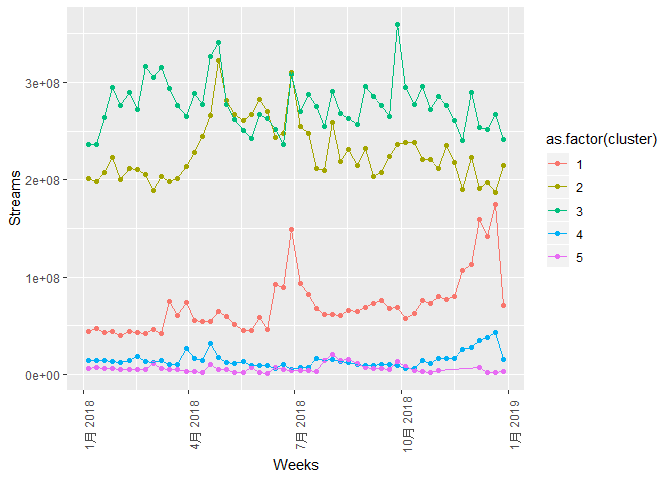
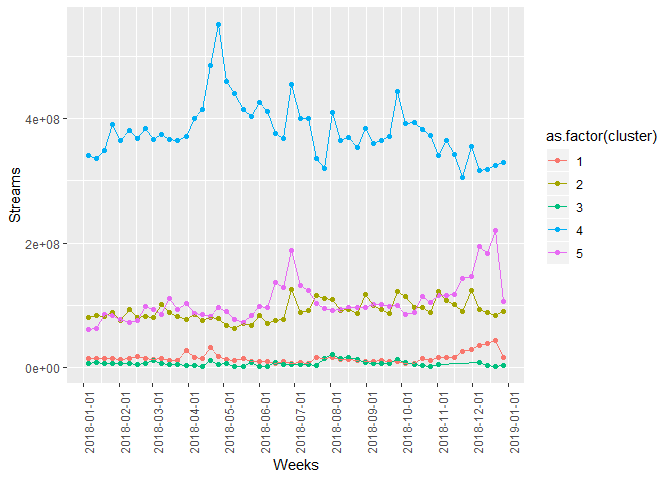
final

diff --git a/Final Project/final_project.md b/Final Project/final_project.md
@@ -6,21 +6,21 @@ By Chong Wang, Tianping Wu, Zhenning Zhao, Zhiyang Lin
 Abstract
 --------
 
-that we gathered from Spotify.com. We built linear and non-linear prediction models of the total steams of the songs, and improved the performance of the prediction comparing with the baseline model. We also segmented the songs into 5 groups through unsupervised algorithm, and assessed the popularity trend of different groups through the entire year. The result of this project can help digital music servers improve playlist song recommendations, and help record companies make album promotion decisions.
+In this project, we gathered data from Spotify.com, and built linear and non-linear prediction models of the total streams of the songs, and improved the performance of the prediction comparing with the baseline model. We also segmented the songs into 5 groups through unsupervised algorithm, and assessed the popularity trend for different groups throughout the entire year. The result of this project can help digital music servers improve playlist song recommendations, and help record companies make album promotion decisions.
 
 Introduction
 ------------
 
-Popular music market is remarkably large, especially in recent years. Pop songs inspire generations from all walks of life. Every day, oceans of pop tracks jump on to the Top 200 List of Spotify. In this project, we analysed the data of the 2018 popular music database from Spotify.com, with the aim of helping digital music servers to improve playlist song recommendations, and, helping record companies to make album promotion decisions according to the predictions on the playing streams.
+Popular music market is remarkably large, especially in recent years. Songs inspire generations from all walks of life. Every day, oceans of tracks jump on to the Top 200 List on Spotify. In this project, we analyzed the data of the 2018 popular music database from Spotify.com, with the aim of helping digital music servers to improve playlist song recommendations, and helping record companies to make album promotion decisions according to the predictions on the playing streams.
 
-This project mainly answered the following questions: first, predict the streams of the tracks; and second, analysis the pattern of the popularity trend. As for the first question, we used stepwise method, the lasso method and the random forest and boosting to build a prediction model of track streams, with the features of the songs and the albums as predictors. As for the second question, we firstly used PCA and K-means to cluster the songs by features, dividing songs into different categories; then we plotted the trend of the popularity of different types of songs, showing the changes in the trend of listener's tastes.
+This project mainly answered the following questions: first, predict the streams of the tracks; and second, analysis of the pattern of the popularity trend. As for the first question, we used stepwise method, the lasso method and the random forest and boosting to build a prediction model of track streams, having features of the songs and the albums as predictors. As for the second question, we firstly used PCA and K-means to cluster the songs by features, dividing songs into different categories; then we plotted the trend of the popularity of different types of songs, showing the changes in the trend of listeners' tastes.
 
 Data
 ----
 
-The dataset that we used comes from Spotify.com. Spotify is one of the biggest digital music servicers that includes a variety of songs. From <https://spotifycharts.com>, we downloaded the weekly data of the top 200 songs in the US. The data in year 2018 gives us access to 1,497 different songs.
+Spotify is one of the biggest digital music servicers that includes a variety of songs. From <https://spotifycharts.com>, we downloaded the weekly data of the top 200 songs in the US. The data in year 2018 gives us access to 1,497 different songs.
 
-Thanks to Spotify's public API, we also have access to the data on the song features. We used python robot to gather the data of song features, artists information and album information. In the end, the formal dataset includes the following variables:
+Thanks to Spotify's public API, we also had access to the data on the song features. We used python robot to gather the data of song features, artists and album information. In the end, the formal dataset includes the following variables:
 
 <b>Table1: Variable Descriptions</b>
 
@@ -99,7 +99,7 @@ Thanks to Spotify's public API, we also have access to the data on the song feat
 </tbody>
 </table>
 
-The explanation of the variables comes from the following link: <https://developer.spotify.com/documentation/web-api/reference/tracks/get-audio-analysis/> Although this project only run on the dataset of 2018, we can do similar analysis for spotify for more songs and more recent data with similar method.
+The explanation of the variables comes from the following link: <https://developer.spotify.com/documentation/web-api/reference/tracks/get-audio-analysis/> Although this project only runs on the dataset of 2018, we can do similar analysis for spotify for more songs and older data using the similar method.
 
 Prediction
 ----------
@@ -126,9 +126,9 @@ The two selected models are shown below. we had 5 and 31 significant coefficient
     ##     liveness:key6 + acousticness:energy + valence:key6 + mode:key6 + 
     ##     danceability:key8 + key8:explicitTRUE + valence:key8 + speechiness:key8
 
-We then used the Lasso model to assemble the best predictive model possible for streams. We used this method to select above two models. We didn't consider the interaction terms in model 3, while included the interaction terms in model 4.
+We then used the Lasso model to assemble the best predictive model possible for streams. We used this method to select two models above. We did not consider the interaction terms in model 3, but included them in model 4.
 
-In the model 3, from the path plot below we could see that minimum AIC occurs at segment 8
+In the model 3, from the path plot below we could see that minimum AIC occurs at segment 8, where there are 6 coefficients in the model.
 
 <b> Figure1: Pathplot of Lasso (Model 3) </b>
 
@@ -141,7 +141,7 @@ Thus, we used the model at the segment 8 and chose 6 coefficients. The specific 
     ## Streams ~ danceability + speechiness + key8 + explicitTRUE + 
     ##     relseaseDuration
 
-In the model4, from the path plot below we could see that minimum AIC occurs at segment 5.
+In the model 4, from the path plot below we could see that minimum AIC occurs at segment 5, where there are 8 coefficients in the model.
 
 <b> Figure2: Pathplot of Lasso (Model 4) </b>
 
@@ -161,12 +161,12 @@ Table2: RMSE of different models
 
 | Model   | CV               |
 |:--------|:-----------------|
-| Model 1 | 34840435.179146  |
-| Model 2 | 34564106.5343185 |
-| Model 3 | 34826041.1398837 |
-| Model 4 | 34851764.9504253 |
-| Model 5 | 34718963.619308  |
-| Model 6 | 34751194.4492581 |
+| Model 1 | 34802186.114901  |
+| Model 2 | 34571981.9831834 |
+| Model 3 | 34786251.1980486 |
+| Model 4 | 34790460.5500625 |
+| Model 5 | 34406689.4147624 |
+| Model 6 | 35101041.336879  |
 
 Lastly, we used k-fold cross validation in order to compare 6 models above. We found that the CVs of model 2 has the minimum CV, and therefore it is our best predictive model possible for streams. The advantage of a linear model is that a linear model with interactions is much easier to interpret than the non-linear models.
 
@@ -176,52 +176,52 @@ Table3: coefficients of model 2
 
 |                               |  coefficients.Estimate|  coefficients.Std..Error|  coefficients.t.value|  coefficients.Pr...t..|
 |-------------------------------|----------------------:|------------------------:|---------------------:|----------------------:|
-| (Intercept)                   |           1.939546e+07|             1.424285e+07|             1.3617677|              0.1735041|
-| duration\_ms\_x               |          -1.285396e+01|             2.061053e+01|            -0.6236600|              0.5329589|
-| acousticness                  |          -1.132336e+06|             1.357940e+07|            -0.0833863|              0.9335570|
-| danceability                  |           1.930377e+07|             8.110417e+06|             2.3801207|              0.0174486|
-| energy                        |          -5.905232e+06|             1.405362e+07|            -0.4201930|              0.6744130|
-| liveness                      |           1.151387e+08|             3.754734e+07|             3.0664944|              0.0022100|
-| loudness                      |           1.365591e+06|             5.822997e+05|             2.3451678|              0.0191663|
-| mode                          |           6.464018e+06|             3.005014e+06|             2.1510778|              0.0316515|
-| speechiness                   |           3.002956e+07|             1.770453e+07|             1.6961508|              0.0900936|
-| valence                       |          -1.736114e+07|             7.658709e+06|            -2.2668494|              0.0235610|
-| key6                          |           1.542874e+06|             1.062235e+07|             0.1452479|              0.8845374|
-| key8                          |           1.275097e+07|             2.373965e+07|             0.5371171|              0.5912774|
-| key10                         |          -6.852558e+06|             4.138133e+06|            -1.6559541|              0.0979693|
-| explicitTRUE                  |          -6.633616e+07|             2.521885e+07|            -2.6304197|              0.0086274|
-| relseaseDuration              |           9.661472e+01|             3.460742e+02|             0.2791734|              0.7801556|
-| explicitTRUE:relseaseDuration |           8.419318e+03|             3.241924e+03|             2.5970126|              0.0095086|
-| valence:explicitTRUE          |           2.394169e+07|             9.072348e+06|             2.6389734|              0.0084139|
-| duration\_ms\_x:key8          |           5.472764e+01|             7.150119e+01|             0.7654087|              0.4441653|
-| energy:liveness               |          -1.448993e+08|             5.006177e+07|            -2.8944107|              0.0038613|
-| acousticness:liveness         |          -1.308889e+08|             3.908219e+07|            -3.3490662|              0.0008338|
-| mode:speechiness              |          -3.257587e+07|             1.400231e+07|            -2.3264647|              0.0201449|
-| mode:key10                    |           1.534371e+07|             6.877201e+06|             2.2310980|              0.0258424|
-| speechiness:explicitTRUE      |          -3.867105e+07|             1.857743e+07|            -2.0816152|              0.0375704|
-| liveness:key6                 |           5.508033e+07|             3.014694e+07|             1.8270622|              0.0679166|
-| acousticness:energy           |           4.304442e+07|             2.244087e+07|             1.9181261|              0.0553111|
-| valence:key6                  |          -2.779565e+07|             1.810757e+07|            -1.5350291|              0.1250169|
-| mode:key6                     |           1.410961e+07|             7.858246e+06|             1.7955160|              0.0728007|
-| danceability:key8             |          -5.389169e+07|             2.384875e+07|            -2.2597284|              0.0240009|
-| key8:explicitTRUE             |           2.201661e+07|             9.272133e+06|             2.3744920|              0.0177157|
-| valence:key8                  |           1.788809e+07|             1.643636e+07|             1.0883242|              0.2766511|
-| speechiness:key8              |          -3.372025e+07|             2.543891e+07|            -1.3255381|              0.1852226|
+| (Intercept)                   |           1.477139e+07|             1.485051e+07|             0.9946722|              0.3200784|
+| duration\_ms\_x               |          -2.605650e+01|             2.103190e+01|            -1.2389035|              0.2156020|
+| acousticness                  |          -2.563100e+06|             1.417628e+07|            -0.1808020|              0.8565508|
+| danceability                  |           2.093635e+07|             8.411312e+06|             2.4890702|              0.0129305|
+| energy                        |           3.889140e+06|             1.442581e+07|             0.2695959|              0.7875134|
+| liveness                      |           1.365523e+08|             3.889650e+07|             3.5106571|              0.0004621|
+| loudness                      |           1.041643e+06|             6.078866e+05|             1.7135477|              0.0868472|
+| mode                          |           3.864808e+06|             3.200567e+06|             1.2075386|              0.2274416|
+| speechiness                   |           2.145372e+07|             1.910959e+07|             1.1226677|              0.2617833|
+| valence                       |          -1.790494e+07|             8.049094e+06|            -2.2244667|              0.0262860|
+| key6                          |           1.312836e+06|             1.077294e+07|             0.1218643|              0.9030251|
+| key8                          |          -2.688801e+07|             2.472275e+07|            -1.0875817|              0.2769788|
+| key10                         |          -8.169889e+06|             4.400088e+06|            -1.8567559|              0.0635690|
+| explicitTRUE                  |          -7.402228e+07|             2.606267e+07|            -2.8401651|              0.0045784|
+| relseaseDuration              |           9.841779e+01|             3.603640e+02|             0.2731066|              0.7848141|
+| explicitTRUE:relseaseDuration |           9.531865e+03|             3.351770e+03|             2.8438305|              0.0045264|
+| valence:explicitTRUE          |           2.267844e+07|             9.489738e+06|             2.3897859|              0.0169981|
+| duration\_ms\_x:key8          |           1.736374e+02|             7.610545e+01|             2.2815364|              0.0226757|
+| energy:liveness               |          -1.775605e+08|             5.172173e+07|            -3.4329967|              0.0006155|
+| acousticness:liveness         |          -1.204973e+08|             3.865382e+07|            -3.1173467|              0.0018644|
+| mode:speechiness              |          -2.604542e+07|             1.506519e+07|            -1.7288486|              0.0840705|
+| mode:key10                    |           1.757108e+07|             6.870561e+06|             2.5574439|              0.0106557|
+| speechiness:explicitTRUE      |          -3.399285e+07|             2.045238e+07|            -1.6620487|              0.0967410|
+| liveness:key6                 |           5.895453e+07|             3.118061e+07|             1.8907436|              0.0588779|
+| acousticness:energy           |           4.280839e+07|             2.337989e+07|             1.8309917|              0.0673276|
+| valence:key6                  |          -2.895847e+07|             1.907235e+07|            -1.5183480|              0.1291667|
+| mode:key6                     |           1.542865e+07|             8.176206e+06|             1.8870187|              0.0593776|
+| danceability:key8             |          -4.036365e+07|             2.535969e+07|            -1.5916460|              0.1117043|
+| key8:explicitTRUE             |           2.513174e+07|             1.057592e+07|             2.3763173|              0.0176287|
+| valence:key8                  |           3.149553e+07|             1.701434e+07|             1.8511171|              0.0643765|
+| speechiness:key8              |          -3.889988e+07|             2.753208e+07|            -1.4128928|              0.1579235|
 
-From model 2, we can clearly see that danceability, energy, liveness, loudness, mode, spechiness and key6 have positive effects on streams, which means the more these factors used in the song, the more people the song will be played by. Also, we need to pay attention to release duration of the album . The longer the release duration is, the song will be played by less people, which means people prefer to play latest songs on Spotify.
+From model 2, we can clearly see that danceability, energy, liveness, loudness, mode, speechiness and key 6 have positive effects on streams, which means the more these factors used in the song, the more people the song will be played. Also, we need to pay attention to release duration of the album . The longer the release duration is, the song will be played by less people, which means people prefer to play latest songs on Spotify.
 
 <b> Figure3: partial dependence plot (Model 5) </b>
 
 ![](final_project_files/figure-markdown_github/pdp-1.png)
 
-From model 5, we got the Partial dependence functions of the song features, and the result seems robust to the result of model 2. Hence, both linear model and the decision tree model gave us similar results.
+Lastly, from model 5, we got the Partial dependence functions of the song features, and the result seems robust to the result of model 2. Hence, both linear model and the decision tree model gave us similar results.
 
 PCA and Clustering
 ------------------
 
 ### General methodologies
 
-In this section we would like to segment the 1,497 songs into groups with similar features in order to recommend to listeners who share the same interests/taste. For the reason of reducing unnecessary noises and computations, we first reduced the initial 27 variables by PCA. Next, we clustered them into groups with similar principle components, and based on the features in each principal component and the actual songs in each cluster, we were able to describe them in secular terminologies such as ??genre??.
+In this section we would like to segment the 1,497 songs into groups with similar features in order to recommend to listeners who share the same interests/taste. For the reason of reducing unnecessary noises and computations, we first reduced the initial 25 variables by PCA. Next, we clustered them into groups with similar principle components, and based on the features in each principal component and the actual songs in each cluster, we were able to describe them in secular terminologies such as ??genre??.
 
 ### PCA
 
@@ -261,7 +261,7 @@ In the table above, we see that the first 20 principle components explain more t
 
 ### Clustering
 
-K-means++ clustering was used to determine our market segments. 3 types of supporting analysis were used to help us determine the the number of them(centroids): Elbow plot(SSE), CH index and Gap statistics.
+K-means++ clustering was used to determine our market segments. 3 types of supporting analysis were used to help us determine the number of K (centroids): Elbow plot(SSE), CH index and Gap statistics.
 
 Figure4: SSE Grid vs K
 
@@ -285,7 +285,7 @@ As the result, we eventually picked K = 5.
 
 ### Song market segments breakdown by distribution of features
 
-After the 5 clusters are determined, we reversed the principle components into the original features to determine cluster characteristics. We show some of the cluster identifiable distributions and the summary of each cluster below.
+After the 5 clusters were determined, we reversed the principle components into the original features to determine cluster characteristics. We showed some of the cluster identifiable distributions and the summary of each cluster below.
 
 <b> Figure7: cluster identifiable distributions </b>
 
@@ -307,7 +307,7 @@ After the 5 clusters are determined, we reversed the principle components into t
 
 ### Song market segments breakdown by genre
 
-Since we have the full list of song names and artist names available in each cluster, we could actually listen to the songs and categorize them manually by the music genre standard as in pop, rock, rap, etc. If our cluster characteristics determined by K-means++ show close resemblance of the music genre, then our recommendation system may be effective, at least to the extent of traditional music listeners with distinct preference over specific genre.
+Since we have the full list of song names and artist names available in each cluster, we could actually listen to the songs and categorize them manually by the music genre standard as in pop, rock, rap, etc. If our cluster characteristics determined by K-means++ show close resemblance of the music genre, then our recommendation system could be effective, at least to the extent of traditional music listeners with distinct preference over specific genre.
 
 Cluster 1: Many songs with electronically altered/amplified sounds, very rhythmic, but genre varying from pop to rap to country, etc. Typical examples would be I Get The Bag by Gucci Mane, Echame La Culpa by Luis Fonsi, IDGAF by Dua Lipa.
 
@@ -321,17 +321,17 @@ Cluster 5: Many indie and pop songs with long vowel sounds, typical examples wou
 
 ### Trend in popularity
 
-We also calculated the total streams of different song clusters by time. The following graph shows the trend in the total streams of different categories.
+We also calculated the total streams of different song clusters by time. The following graph demonstrates the trend in the total streams of different categories.
 
 <b> Figure8: trend in the total streams </b>
 
 ![](final_project_files/figure-markdown_github/trend-1.png)
 
-From this graph we can see that the stream of five types of songs doesn't change too much in a year. Cluster 1 music has more streams overall, due to the fact that there are more songs in this categories. There is a peak in the end of April in 2018 for cluster 1, and then the streams goes back to normal. From this graph we can also see that at the end of the year cluster 1 music is not as popular as in the middle of the year, but type 3 music becomes more and more popular, especially in july and the end of the year. The popularity of cluster 2, cluster 4 and cluster 5 music doesn't change too much in the whole year.
+From this graph it is demonstrated that the stream of five types of songs does not change too much in a year. Cluster 4 music has more streams overall, due to the fact that there are more songs in this categories. There is a peak in the end of April in 2018 for cluster 4, and then the streams goes back to normal. From this graph we can also see that at the end of the year cluster 4 music is not as popular as in the middle of the year, but type 5 music becomes more and more popular, especially in June and the end of the year. The popularity of cluster 1, cluster 2 and cluster 3 music doesn't change too much in the whole year. 
 
 Conclusion
 ----------
 
-In each age, the popularity of songs reflects people's preference to music, which may differ from each era. To predict the success of a song, we need take care of the contemporaneous music preference. In 2018, modern people are crazy about music elements of danceability, energy, liveness and so on. It seems that they are more likely to pursue the latest music. As a result, In order to predict the song's popularity trend in 2019, the first thing we need to do is to gather the information of public music preference next year.
+In each age, the popularity of songs reflects people's preference over different music, which may also differ from each era. To predict the success of a song, we need to take care of the contemporaneous music preference. In 2018, modern people are crazy about music elements of danceability, energy, liveness and so on. It seems that they are more likely to pursue the latest music. As a result, in order to predict the song's popularity trend in 2019, the first thing we need to do is to gather the information of public music preference next year.
 
-Traditionally music listeners explore songs by specific genre and artists. This confirmation bias, typically nurtured through years of artificial genre segmentation by media and artist reputation, could be limiting listeners from the songs that they really want to exposed to. The question of "why are we attracted to certain songs" is a philosophical discussion that is beyond the scope of our project here, but given the data from spotify data and our clustering method, we perhaps show that key, time signature and speed of the songs are some of the contributing factors to our inner biological working of what to like and dislike. Then, our basic recommendation system, most likely already used by music industry like Spotify, could recommend songs not by mere genre and artist names, but also by specific keys and time signatures each listener is attracted to, subconsciously.
+Traditional music listeners explore songs by specific genre and artists. This confirmation bias, typically nurtured through years of artificial genre segmentation by media and artist reputation, could limit listeners from the songs that they really want to be expoed to. The question of "why are we attracted to certain songs" is a philosophical discussion that is beyond the scope of our project here, but given the data from Spotify data and our clustering method, we perhaps show that key, time signature and speed of the songs are some of the contributing factors to our inner biological working of what to like and dislike. Then, our basic recommendation system, most likely already used by music industry like Spotify, could recommend songs not by mere genre and artist names, but also by specific keys and time signatures each listener is attracted to, subconsciously.
